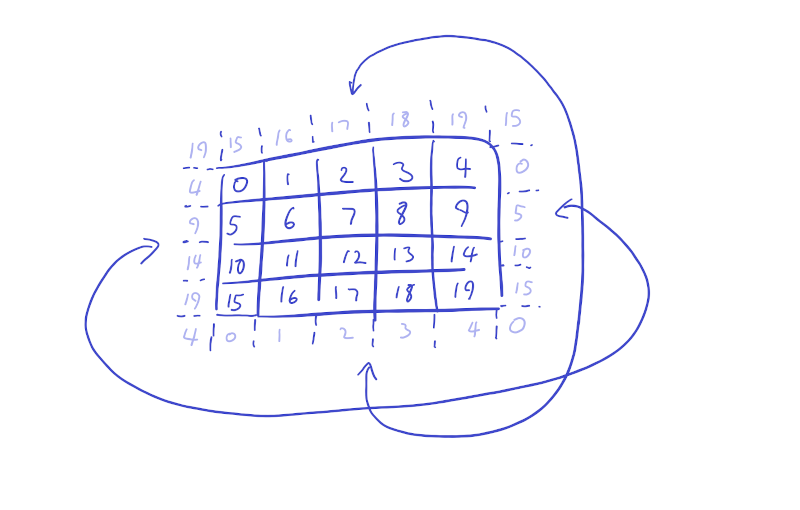
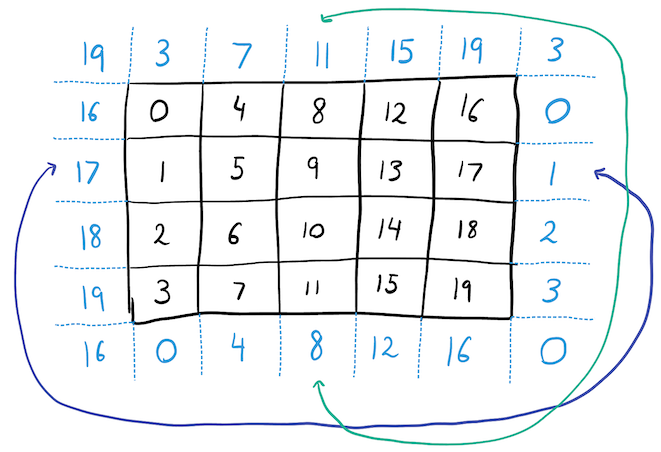
Fix typos and image in Lab 7 readme

diff --git a/src/comp1110/lab7/README.md b/src/comp1110/lab7/README.md
@@ -7,7 +7,7 @@ This lab contains material from module [**O5**](https://cs.anu.edu.au/courses/co
 **Tasks**
 1. [Rabbits and Foxes](#1-rabbits-and-foxes)
 
-**Additional Exercises** 
+**Additional Exercises**
 1. [Cellular Automata](#1-cellular-automata)
 2. [Ecosystem Modelling](#2-further-reading-ecosystem-modelling)
 3. [Group Assignment](#3-work-on-your-group-assignment)
@@ -45,11 +45,12 @@ Animals (both rabbits and foxes) reproduce whenever they are not hungry.
 The locations in the world are laid out on a Cartesian grid.
 Each location has an x and a y coordinate, and eight neighbouring locations, which are those locations with x and y coordinates that differ by no more than 1.
 The world has [periodic boundary conditions](https://en.wikipedia.org/wiki/Periodic_boundary_conditions), which means that if an animal moves off the right-hand edge of the grid (`x == world.sizeX`), it reappears on the left-hand edge (`x == 0`) and vice-versa, and if an animal moves off the bottom edge of the grid (`y == world.sizeY`), it reappears on the top edge (`y == 0`) and vice-versa.
-The boundary conditions are shown for an example 5x4 grid in the diagram below; for example, location 15 has neighbouring locations {14,10,11,19,16,4,0,1}.
+The boundary conditions are shown for an example 5x4 grid in the diagram below; for example, location 15 has neighbouring locations {10, 14, 18, 11, 19, 8, 12, 16}.
+
 ![diagram of periodic boundary conditions](../../../assets/periodic_boundary.png)
 
-The class [World.java](World.java) contains an incomplete implementation of the simulation; Javadoc in this class defines the rules for each type of organism.
-You should complete the methods marked "FIXME" after you have finished reading the rest of the explanation below. You should first complete the `getCurrentState` method, which will allow the GUI to interact with your World. After completing this method you should be able to launch the GUI, but you will need to complete the other FIXME methods before the rabbits and foxes will move around the world. 
+The class [World.java](World.java) contains an incomplete implementation of the simulation; the Javadocs in this class define the rules for each type of organism.
+You should complete the methods marked "FIXME" after you have finished reading the rest of the explanation below. You should first complete the `getCurrentState()` method, which will allow the GUI to interact with your World. After completing this method you should be able to launch the GUI, but you will need to complete the other FIXME methods before the rabbits and foxes will move around the world.
 
 Note: you should read all the provided code before making changes.
 Many of the rules are already implemented, including the rules for reproduction and starvation (in the methods `Animal.reproduce()` and `World.update()` respectively).
@@ -59,7 +60,7 @@ Unfortunately, this GUI requires the world to be represented via a simple String
 You must complete the `World.getCurrentState()` method to convert from the internal (object-oriented) structure into the String representation that the GUI requires; the Javadoc for this method contains a full description of the String interface.
 We have also provided a set of unit tests for each of the methods you need to complete, which you can run by selecting  the `L7 WorldTest` configuration from the **Run Configuration** menu and clicking ![run button - green triangle](../../../assets/intellij-icon-run.png) **Run**.
 
-## Part III: Additional Exercises 
+## Part III: Additional Exercises
 
 Remember that these are additional exercises for your own practice. They are not compulsory, but your tutor will be happy to provide assistance and feedback during the lab.
 
